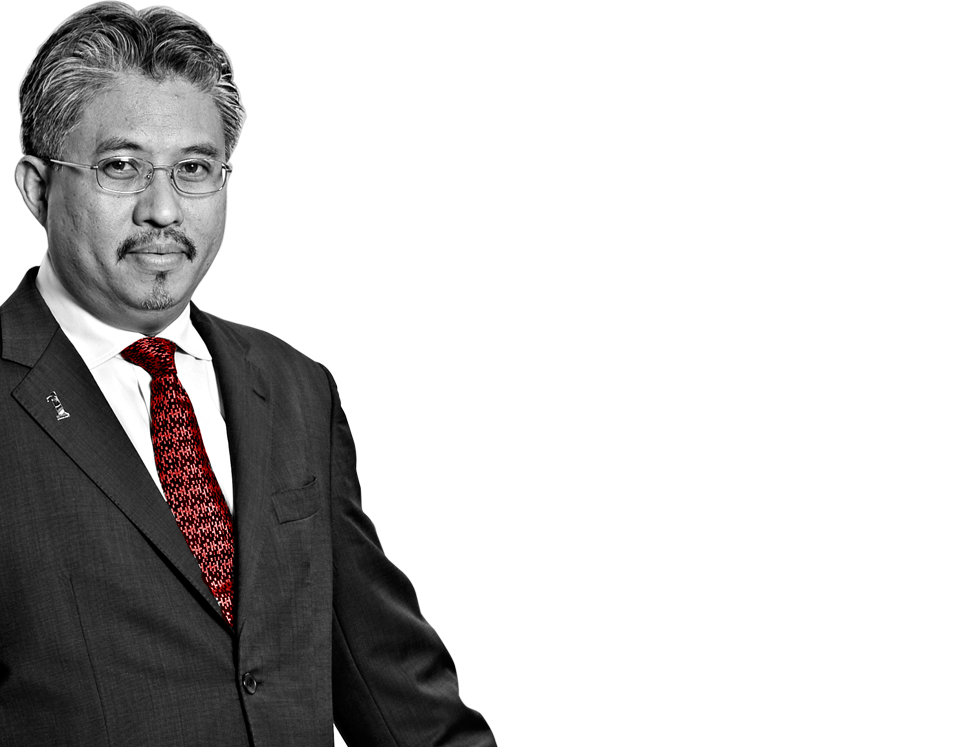
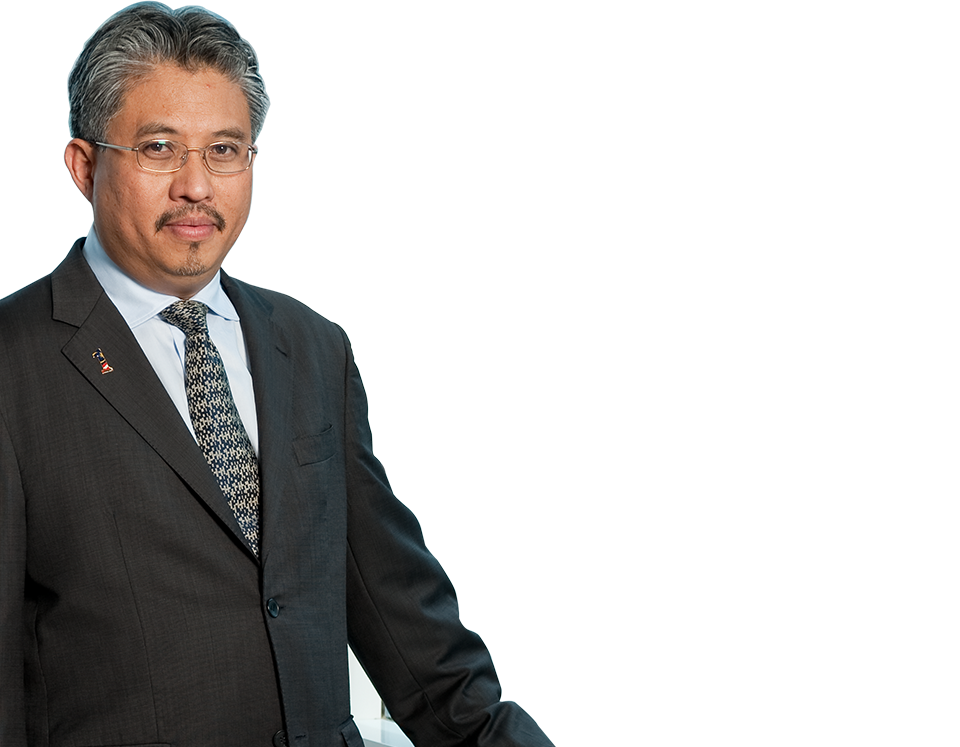
chapter1_5 chairman pic changed, add award box

diff --git a/ar/chapter1/chapter1_5.php b/ar/chapter1/chapter1_5.php
@@ -46,6 +46,8 @@
 							<br />
 							Alongside these awards, I am happy to note that Axiata’s outstanding leadership continues to receive local and international recognition. It gives me great pleasure to have this opportunity to congratulate Dato’ Sri Jamaludin, President and Group CEO, who was honoured with two very distinguished awards in 2014 for CEO of the Year at the MSWG-Asean Corporate Governance Transparency Index Awards as well as Malaysia’s Outstanding CEO 2014, at the Edge Billion Ringgit Club. Most recently in March this year, Dato’ Sri Jamaludin was the recipient of the 2015 GSM Association Chairman award which recognises outstanding personal contribution to the growth and development of mobile communications around the world. The awards are an acknowledgement of his leadership and valuable contribution in shaping Axiata into one of Asia’s most successful mobile networks. <br />
 							<br />
+							<img src="../assets/img/chapter1/5/awards-box.png" style="width:100%" /><br />
+							<br />
 							This year, I am very pleased to welcome back Dr Muhamad Chatib Basri to the Axiata Board of Directors line-up. Having served as the Chairman of the Investment Coordination Board and subsequently as the Minister of Finance of Indonesia, Dr Chatib brings with him a wealth of experience and knowledge of Indonesia, one of our biggest markets in the region. In addition, he brings invaluable expertise in international trade and macroeconomics which extends beyond Asia, an important addition to Axiata as we continue our journey as a regional champion.<br />
 							<br />
 							<br />
